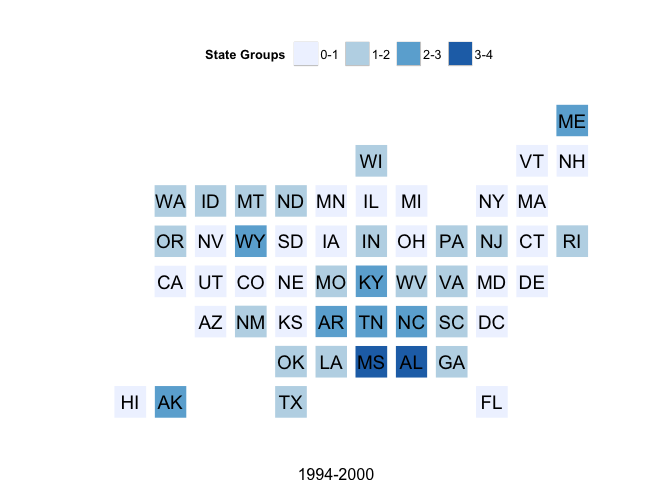
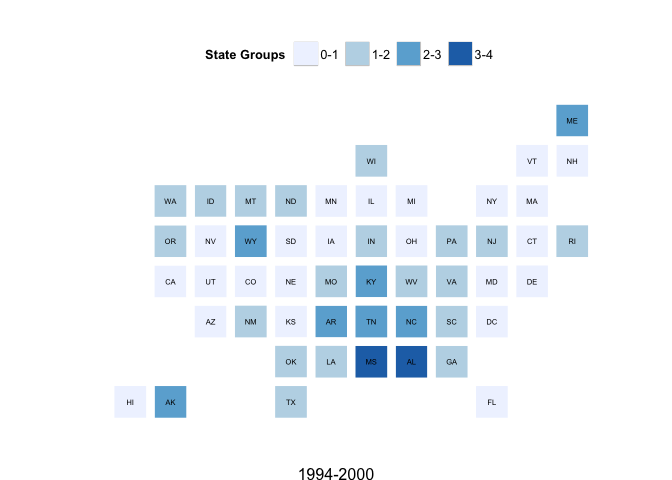
text size

diff --git a/_README.md b/_README.md
@@ -1,0 +1,75 @@
+statesquares is ...
+
+The following functions are implemented:
+
+-   `statebins` -
+
+### News
+
+-   Version `1.0.0` released
+
+### Installation
+
+``` {.r}
+devtools::install_github("hrbrmstr/statebins")
+```
+
+### Usage
+
+``` {.r}
+library(statebins)
+```
+
+    ## Loading required package: ggplot2
+    ## Loading required package: grid
+    ## Loading required package: scales
+    ## Loading required package: gridExtra
+
+``` {.r}
+# current verison
+packageVersion("statebins")
+```
+
+    ## [1] '1.0'
+
+``` {.r}
+dat <- read.csv("http://www.washingtonpost.com/wp-srv/special/business/states-most-threatened-by-trade/states.csv?cache=1", stringsAsFactors=FALSE)
+
+gg <- statebins(dat, "state", "avgshare94_00", breaks=4, 
+                labels=c("0-1", "1-2", "2-3", "3-4"),
+                legend_title="State Groups",
+                brewer_pal="Blues", text_color="black", 
+                plot_title="1994-2000", title_position="bottom")
+
+gg
+```
+
+![plot of chunk unnamed-chunk-3](./_README_files/figure-markdown_github/unnamed-chunk-31.png)
+
+``` {.r}
+gg2 <- statebins_continuous(dat, "state", "avgshare01_07",
+                legend_title="States", legend_position="none",
+                brewer_pal="OrRd", text_color="black", 
+                plot_title="1994-2000", title_position="bottom")
+
+gg2
+```
+
+![plot of chunk unnamed-chunk-3](./_README_files/figure-markdown_github/unnamed-chunk-32.png)
+
+### Test Results
+
+``` {.r}
+library(statebins)
+library(testthat)
+
+date()
+```
+
+    ## [1] "Mon Aug 25 22:22:55 2014"
+
+``` {.r}
+test_dir("tests/")
+```
+
+    ## basic functionality :
